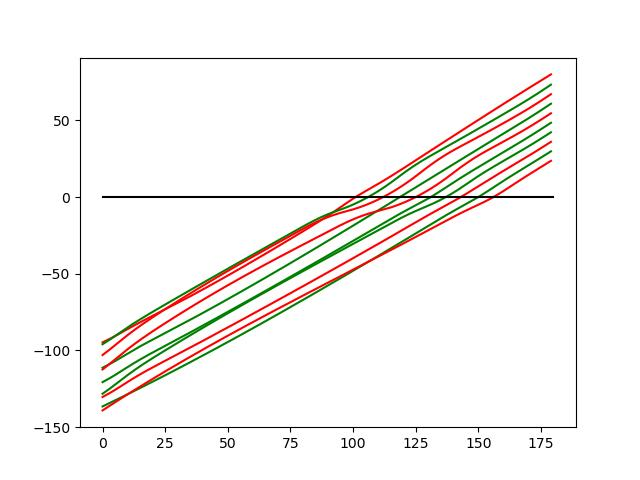
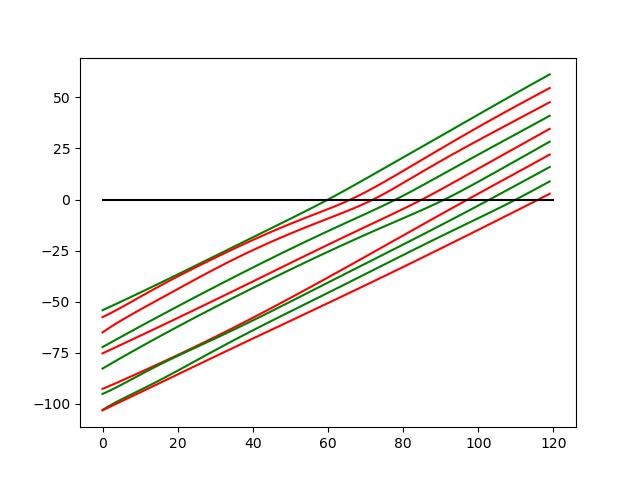
debug

diff --git a/solver_admm.py b/solver_admm.py
@@ -141,8 +141,8 @@ class WeightedADMM:
     MatrixD: np.ndarray = None
     MatrixAD_dict: dict = dict()
 
-    Q_x: np.ndarray = np.diag([5.0, 0.1, 0.1])
-    Q_u: np.ndarray = np.diag([0.1])
+    Q_x: np.ndarray = np.diag([1.0, 0.1, 0.1])
+    Q_u: np.ndarray = np.diag([1])
     Q_xu: np.ndarray = np.block([[                                   Q_x, np.zeros((Q_x.shape[0], Q_u.shape[1]))],
                                  [np.zeros((Q_u.shape[1], Q_x.shape[0])),                                    Q_u]])
 
@@ -155,8 +155,8 @@ class WeightedADMM:
 
         if len(all_data) == 10:
             ADmat = scipy.io.loadmat('ADsave/veh_5_5_'+graph+'.mat')
-            WeightedADMM.MatrixA = 1 * ADmat['A']
-            WeightedADMM.MatrixD = 1 * ADmat['D'].diagonal()
+            WeightedADMM.MatrixA = 0.05 * ADmat['A']
+            WeightedADMM.MatrixD = 0.05 * ADmat['D'].diagonal()
         main_set = [0, 1, 2, 3, 4]
         merge_set = [5, 6, 7, 8, 9]
         for id in all_data:
@@ -258,7 +258,7 @@ class WeightedADMM:
         K = np.block([-2 * self.ref_trace @ Big_Q_ux, np.zeros(t_dim)])
         L = np.block([self.A_i, -np.eye(t_dim)])
         
-        P = 2 * (J + L.transpose() @ L * (1/self.d_ii))
+        P = 2 * (J + (1/(4*self.d_ii)) * L.transpose() @ L)
         q_fun = lambda K, L, v, d_ii: K + (1/(2*d_ii)) * v @ L
         
         C_U_A = np.block([np.kron(np.eye(self.T_nums), np.array([0, 0, 0, 1])), np.zeros((self.T_nums, t_dim))])
@@ -320,6 +320,154 @@ class WeightedADMM:
         return SolveX
         
 
+class FullADMM:
+    
+    rho = 0.1
+
+    Q_x: np.ndarray = np.diag([5.0, 0.1, 0.1])
+    Q_u: np.ndarray = np.diag([0.1])
+    Q_xu: np.ndarray = np.block([[                                   Q_x, np.zeros((Q_x.shape[0], Q_u.shape[1]))],
+                                 [np.zeros((Q_u.shape[1], Q_x.shape[0])),                                    Q_u]])
+
+    all_solver: dict = {}
+    
+    def __init__(self,id:int, veh_num: int, one_data: list) -> None:
+
+        self.d_i = veh_num - 1
+        lane, t0, tf, to, x0, xf, iop, iof, oiop, oiof, trace = one_data
+        # base value
+        self.lane = lane
+        self.veh_num = veh_num
+        self.T_nums = int((trace.shape[0] - (SDIM + CDIM)) / (SDIM+CDIM)) # trace include init state
+        FullADMM.all_solver[id] = self
+        self.id = id
+        self.to = to
+        # matrix
+        self.ref_trace: np.ndarray = trace[CDIM+SDIM:]
+        self.x0 = trace[:SDIM]
+        self.b_i: np.ndarray = self.Generateb_i(one_data)
+        self.A_i: np.ndarray = self.GenerateA_i(one_data)
+        # variable
+        self.x: np.ndarray = np.zeros((self.T_nums * (SDIM+CDIM),))
+        self.y_self: np.ndarray = np.zeros((veh_num * self.T_nums,))
+        self.y_all: np.ndarray = np.zeros((veh_num, veh_num*self.T_nums))
+        self.p: np.ndarray = np.zeros((veh_num * self.T_nums,))
+        self.v: np.ndarray = -self.b_i
+        # solverx
+        self.SolveX = self.SolveX_Closure()
+
+    def Generateb_i(self, one_data: list) -> np.ndarray:
+        lane, t0, tf, to, x0, xf, iop, iof, oiop, oiof, trace = one_data
+        b_i = np.zeros((self.T_nums * self.veh_num))
+        if iop is not None:
+            b_i[(self.id-1)*self.T_nums: (self.id-1)*self.T_nums + to] = EnvParam.Dsafe
+        if iof is not None:
+            b_i[(self.id-1)*self.T_nums+to: self.id * self.T_nums] = EnvParam.Dsafe
+        np.save("d_{0}".format(self.id), b_i)
+        return b_i
+    
+    def GenerateA_i(self, one_data: list) -> np.ndarray:
+        lane, t0, tf, to, x0, xf, iop, iof, oiop, oiof, trace = one_data
+        A_i = np.zeros((self.T_nums * self.veh_num, self.T_nums * (CDIM + SDIM)))
+        temp = np.kron(np.eye(self.T_nums), np.array((1, 0, 0, 0)))
+        if iop is not None:
+            A_i[(self.id-1)*self.T_nums: (self.id-1)*self.T_nums + to] = -temp[: to]
+        if iof is not None:
+            A_i[(self.id-1)*self.T_nums+to: self.id * self.T_nums] = -temp[to: ]
+        if oiop is not None:
+            A_i[(oiop[0]-1) * self.T_nums          : (oiop[0]-1) * self.T_nums + oiop[1]] = temp[       : oiop[1]]
+        if oiof is not None:
+            A_i[(oiof[0]-1) * self.T_nums + oiof[1]:               oiof[0] * self.T_nums] = temp[oiof[1]:        ]
+        np.save("A_{0}".format(self.id), A_i)
+        return A_i
+
+    def _UpdateY(self) -> None:
+        for id in FullADMM.all_solver:
+            self.y_all[id-1] = FullADMM.all_solver[id].y_self.copy()
+        
+    def SolveP2(self) -> None:
+        # for v
+        self.v = FullADMM.rho * (self.d_i * self.y_self + sum(self.y_all)) - self.b_i - self.p
+        # qp for x, t
+        self.x, _ = self.SolveX()
+        # for y
+        self.y_self = np.clip(self.A_i @ self.x + self.v, -np.inf, 0) / (2*self.d_ii)
+        
+    def SolveP1(self) -> None:
+        # communicate
+        self._UpdateY()
+        # for p
+        self.p = self.p + FullADMM.rho * (self.d_i * self.y_self - sum(self.y_all))
+        
+    def SolveX_Closure(self) -> tuple:
+        Big_Q_ux = np.kron(np.eye(self.T_nums), FullADMM.Q_xu)
+        Big_Q_ux[-(CDIM+SDIM): , -(CDIM+SDIM): ] = FullADMM.Q_xu * 10
+        t_dim = self.veh_num * self.T_nums
+        J = np.block([[                            Big_Q_ux,   np.zeros((Big_Q_ux.shape[0], t_dim))],
+                      [np.zeros((t_dim, Big_Q_ux.shape[1])),               np.zeros((t_dim, t_dim))]])
+        K = np.block([-2 * self.ref_trace @ Big_Q_ux, np.zeros(t_dim)])
+        L = np.block([self.A_i, -np.eye(t_dim)])
+        
+        P = 2 * (J + L.transpose() @ L * (1/(self.d_i * self.rho)))
+        q_fun = lambda K, L, v: K + (1/(2*(self.d_i * self.rho))) * v @ L
+        
+        C_U_A = np.block([np.kron(np.eye(self.T_nums), np.array([0, 0, 0, 1])), np.zeros((self.T_nums, t_dim))])
+        C_U_l = U_min * np.ones(self.T_nums)
+        C_U_u = U_max * np.ones(self.T_nums)
+
+        T1 = np.eye(self.T_nums)
+        T2 = np.concatenate((np.eye(SDIM), -dynamic_model.OneDimDynamic.Bd), axis=1)
+        T3 = np.kron(T1, T2)
+        G = np.zeros((self.T_nums*SDIM, self.T_nums*(SDIM+CDIM)))
+        for i in range(1, self.T_nums):
+            T4 = -dynamic_model.OneDimDynamic.Bd
+            for j in range(i, 0, -1):
+                T4 = dynamic_model.OneDimDynamic.Ad @ T4
+                G[i*SDIM: (i+1)*SDIM, (j-1)*(SDIM+CDIM)+SDIM: j*(SDIM+CDIM)] = T4
+        B = np.zeros((self.T_nums*SDIM, SDIM))
+        for i in range(self.T_nums):
+            B[i*SDIM: (i+1)*SDIM, :] = np.linalg.matrix_power(dynamic_model.OneDimDynamic.Ad, i+1)
+        C_D_A = np.block([G + T3, np.zeros((self.T_nums * SDIM, t_dim))])
+        C_D_l = B @ self.x0
+        C_D_u = C_D_l
+        
+        C_X_A = np.zeros((2, self.T_nums * (CDIM + SDIM) + t_dim))
+        C_X_A[0, self.to * (CDIM + SDIM)] = 1
+        C_X_A[1, (self.to+1) * (CDIM + SDIM)] = 1
+        C_X_l = np.array([-np.inf, 0])
+        C_X_u = np.array([0, +np.inf])
+
+        C_T_A = np.block([np.zeros((t_dim, self.T_nums * (CDIM + SDIM))), np.eye(t_dim)])
+        C_T_l = np.zeros((t_dim,))
+        C_T_u = np.ones((t_dim,)) * np.inf
+
+        A = np.block([[C_U_A],
+                      [C_D_A],
+                      [C_X_A],
+                      [C_T_A]])
+        l = np.block([C_U_l, C_D_l, C_X_l, C_T_l])
+        u = np.block([C_U_u, C_D_u, C_X_u, C_T_u])
+
+        q = q_fun(K, L, self.v)
+        prob = osqp.OSQP()
+        
+        P = sparse.csc_matrix(P)
+        A = sparse.csc_matrix(A)
+        with suppress_stdout_stderr():
+            prob.setup(P, q, A, l, u)
+
+        def SolveX():
+            nonlocal q_fun, prob, t_dim, K, L
+
+            q = q_fun(K, L, self.v)
+            prob.update(q = q)
+            with suppress_stdout_stderr():
+                res = prob.solve()
+            res = np.array(res.x)
+            # print('id', self.id)
+            return res[: self.T_nums * (SDIM+CDIM)], res[-t_dim:]
+
+        return SolveX
         
 
 

diff --git a/main02.py b/main02.py
@@ -4,7 +4,7 @@ import matplotlib.pyplot as plt
 from dynamic_model import OneDimDynamic, init_system
 from utilit import ProcessTrace, PickleSave, PickleRead
 import pickle
-from solver_admm import WeightedADMM
+from solver_admm import WeightedADMM, FullADMM
 
 
 init_system()
@@ -48,8 +48,10 @@ ProcessTrace(result)
 for _ in result:
     print("id: {0}, state {1}".format(_, result[_][:-1]))
 
-graph = 'weighted'
-round = 10
+graph = 'full'
+round = 50
+
+#################
 WeightedADMM.makeAD(result, graph)
 for id in result:
     WeightedADMM(id, len(result), result[id])
@@ -61,13 +63,34 @@ for i in range(round):
     for id in WeightedADMM.all_solver:
         WeightedADMM.all_solver[id].SolveP2()
     
-fig = plt.figure()
-for id in WeightedADMM.all_solver:
-    trace = WeightedADMM.all_solver[id].x.reshape((-1, 4))[:, 0]
-    color = 'red' if WeightedADMM.all_solver[id].lane == 'main' else 'green'
-    plt.plot(trace, color=color)
+    if (i+1) % 10 == 0:
+        fig = plt.figure()
+        for id in WeightedADMM.all_solver:
+            trace = WeightedADMM.all_solver[id].x.reshape((-1, 4))[:, 0]
+            color = 'red' if WeightedADMM.all_solver[id].lane == 'main' else 'green'
+            plt.plot(trace, color=color)
+        plt.plot([0, len(trace)], [0, 0], color='black')
+        fig.savefig('figs/' + graph+"_test_"+str(i+1)+".jpg")
+#################
+# for id in result:
+    # FullADMM(id, len(result), result[id])
+    
+# for i in range(round):
+    # print('---------------------------------')
+    # for id in FullADMM.all_solver:
+        # FullADMM.all_solver[id].SolveP1()
+    # for id in FullADMM.all_solver:
+        # FullADMM.all_solver[id].SolveP2()
+    
+# fig = plt.figure()
+# for id in FullADMM.all_solver:
+    # trace = FullADMM.all_solver[id].x.reshape((-1, 4))[:, 0]
+    # color = 'red' if FullADMM.all_solver[id].lane == 'main' else 'green'
+    # plt.plot(trace, color=color)
 
-plt.plot([0, len(trace)], [0, 0], color='black')
+
+
+
     # to, line = one_trace
     # to = to * 10
     # plt.plot(line, color="green")
@@ -81,7 +104,6 @@ plt.plot([0, len(trace)], [0, 0], color='black')
 # plt.plot([0, 175], [0, 0], color='black')
 
 
-fig.savefig('figs/' + graph+"_test_"+str(round)+".jpg")
 # fig.show()
 
 

diff --git a/utilit.py b/utilit.py
@@ -83,7 +83,7 @@ def GenerateSpecificTrace(main_num: int, merge_num: int, count: int = 10):
             else:
                 raise ValueError
         if main_num == main_ and merge_ == merge_num:
-            PickleSave(result, 'init_state.pkl')
+            PickleSave(result, 'init_state/init_state.pkl')
             print("complete")
             return
     print("Faile")

diff --git a/env.py b/env.py
@@ -5,8 +5,8 @@ from dynamic_model import OneDimDynamic
 class EnvParam:
 
     L1: float = 50
-    L2: float = 100
-    L3: float = 80
+    L2: float = 60
+    L3: float = 60
 
     Dsafe = 5
 
